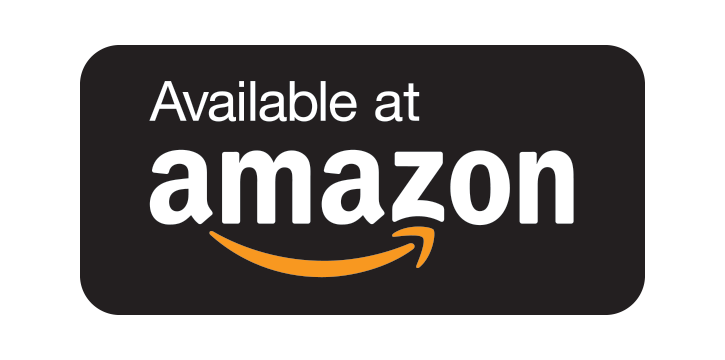
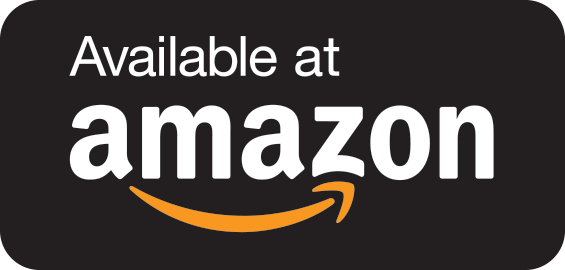
Add links, fix smooth scrolling, fix bookstores

diff --git a/public/js/script.js b/public/js/script.js
@@ -1,11 +1,3 @@
-/*
-Theme: Flatfy Theme
-Author: Andrea Galanti
-Bootstrap Version 
-Build: 1.0
-http://www.andreagalanti.it
-*/
-
 $(window).load(function() { 
 	//Preloader 
 	$('#status').delay(300).fadeOut(); 
@@ -14,63 +6,17 @@ $(window).load(function() {
 })
 
 $(document).ready(function() {
-		//animated logo
-		$(".navbar-brand").hover(function () {
-			$(this).toggleClass("animated shake");
-		});
-		
-		//animated scroll_arrow
-		$(".img_scroll").hover(function () {
-			$(this).toggleClass("animated infinite bounce");
-		});
-		
-		//Wow Animation DISABLE FOR ANIMATION MOBILE/TABLET
-		wow = new WOW(
-		{
-			mobile: false
-		});
-		wow.init();
-		
-		//MagnificPopup
-		$('.image-link').magnificPopup({type:'image'});
-
-
-		// OwlCarousel N1
-		$("#owl-demo").owlCarousel({
-			autoPlay: 3000,
-			items : 3,
-			itemsDesktop : [1199,3],
-			itemsDesktopSmall : [979,3]
-		});
-
-		// OwlCarousel N2
-		$("#owl-demo-1").owlCarousel({
-			  navigation : false, // Show next and prev buttons
-			  slideSpeed : 300,
-			  paginationSpeed : 400,
-			  singleItem:true
-		});
-
 		//SmothScroll
 		$('a[href*=#]').click(function() {
-			if (location.pathname.replace(/^\//,'') == this.pathname.replace(/^\//,'')
-			&& location.hostname == this.hostname) {
-					var $target = $(this.hash);
-					$target = $target.length && $target || $('[name=' + this.hash.slice(1) +']');
-					if ($target.length) {
-							var targetOffset = $target.offset().top;
-							$('html,body').animate({scrollTop: targetOffset}, 600);
-							return false;
-					}
+			if (location.pathname.replace(/^\//,'') == this.pathname.replace(/^\//,'') && location.hostname == this.hostname) {
+        var $target = $(this.hash);
+        $target = $target.length && $target || $('[name=' + this.hash.slice(1) +']');
+        if ($target.length) {
+            var targetOffset = $target.offset().top;
+            $('html,body').animate({scrollTop: targetOffset}, 600);
+            return false;
+        }
 			}
 		});
-		
-		//Subscribe
-		new UIMorphingButton( document.querySelector( '.morph-button' ) );
-		// for demo purposes only
-		[].slice.call( document.querySelectorAll( 'form button' ) ).forEach( function( bttn ) { 
-			bttn.addEventListener( 'click', function( ev ) { ev.preventDefault(); } );
-		} );
-
 });
 

diff --git a/public/css/custom.css b/public/css/custom.css
@@ -435,28 +435,29 @@ NO MORE TABLES!! ;)
 .book_stores_bar {
 	width: 100%;
 	background: gray;
+  padding: 30px 0 30px 0;
 }
 
 .book_stores_container {
-    text-align: center;
+    max-width: 900px;
+    margin-left: auto;
+    margin-right: auto;
 }
 
 .book_store_link {
-    display:inline-block;
-    width: 30%
-
+    text-align: center;
 }
 
 .book_store_image {
-	display:inline-block;
-    width:100%;
-    height:auto;
+    display:inline-block;
+    height:70px;
 }
 .available_text {
 	color: white;
 	font-family: 'Bebas Neue';
 	font-size: 35px;
-    text-align: center;
+  text-align: center;
+  margin-bottom: 15px;
 }
 
 .bebas {
@@ -610,6 +611,11 @@ input[type="email"]:-ms-input-placeholder {
 .youtube_bar {
 	position: relative;
 	background: white;
+  padding: 30px 0 0 0;
+}
+
+.youtube {
+  text-align: center;
 }
 
 .youtube_info_bar {
@@ -618,8 +624,9 @@ input[type="email"]:-ms-input-placeholder {
 
 .youtube_logo_container {
 	display: block;
-	width: 100%;
-	height: 100%;
+	width: 10vw;
+  margin-left: auto;
+  margin-right: auto;
 }
 
 .youtube_line {
@@ -636,7 +643,6 @@ input[type="email"]:-ms-input-placeholder {
 }
 
 .channel_text {
-	padding-top: 8%;
 	color: #212121;
 	font-family: 'Bebas Neue';
 	font-size: 45px;
